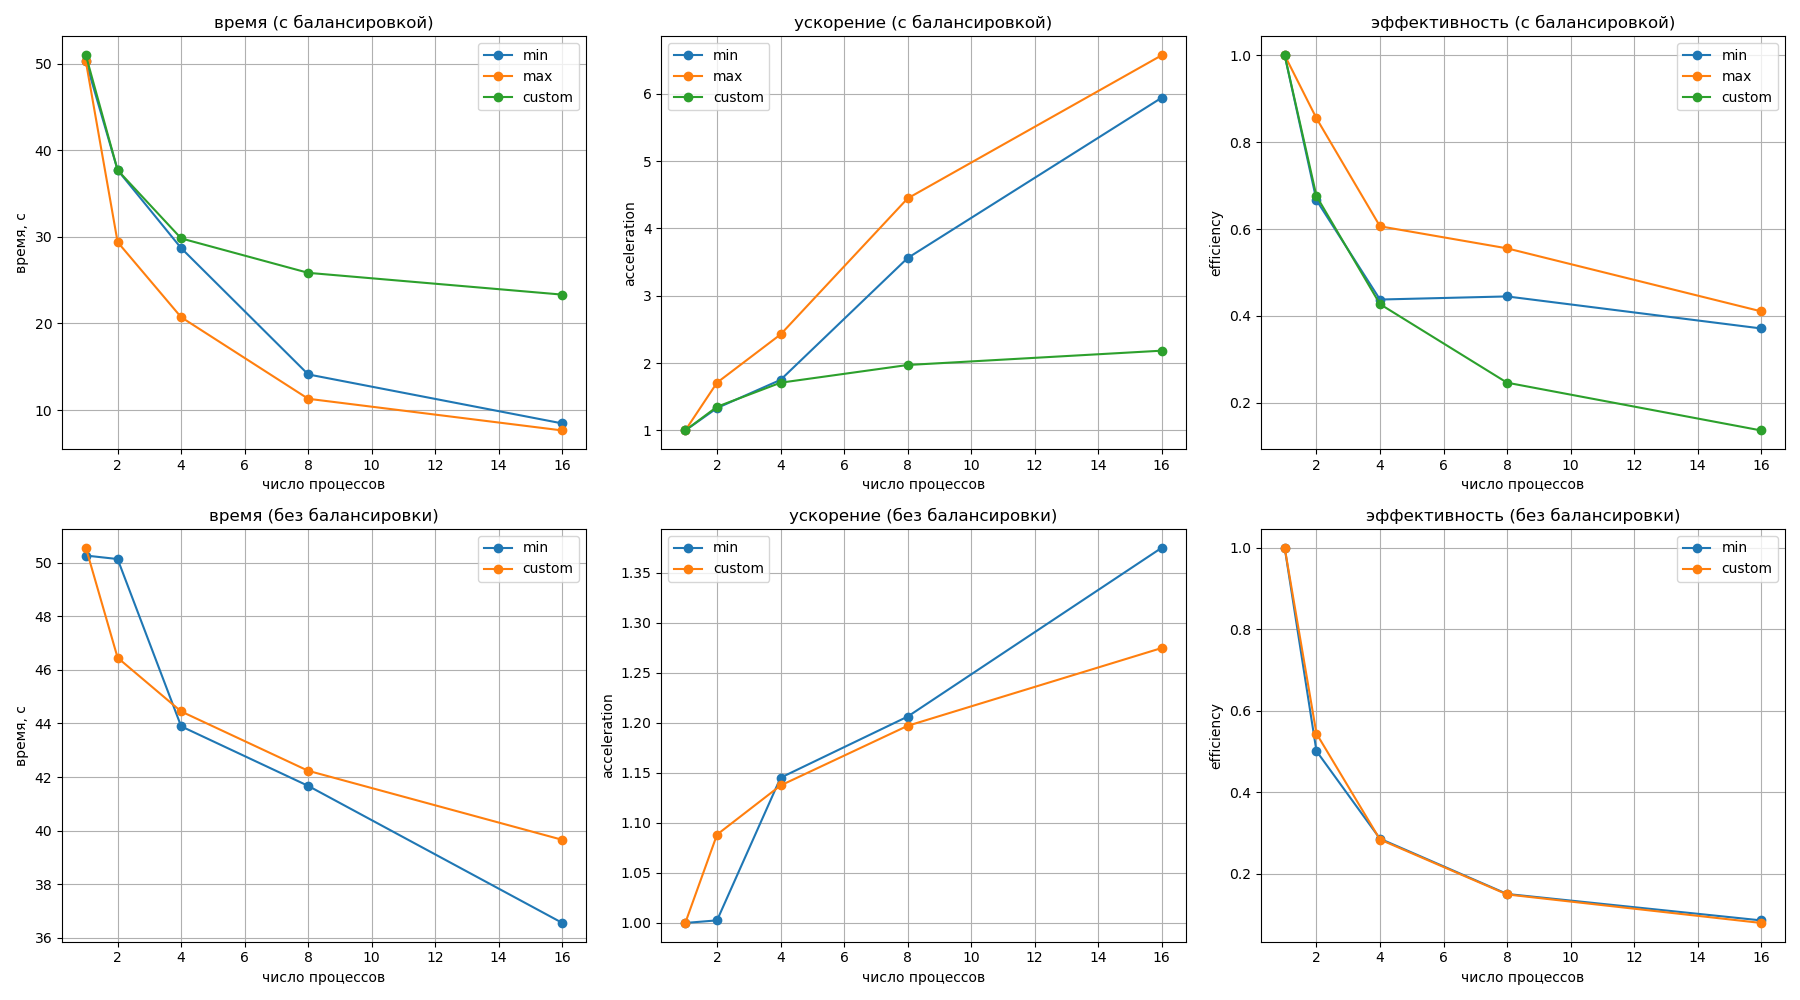
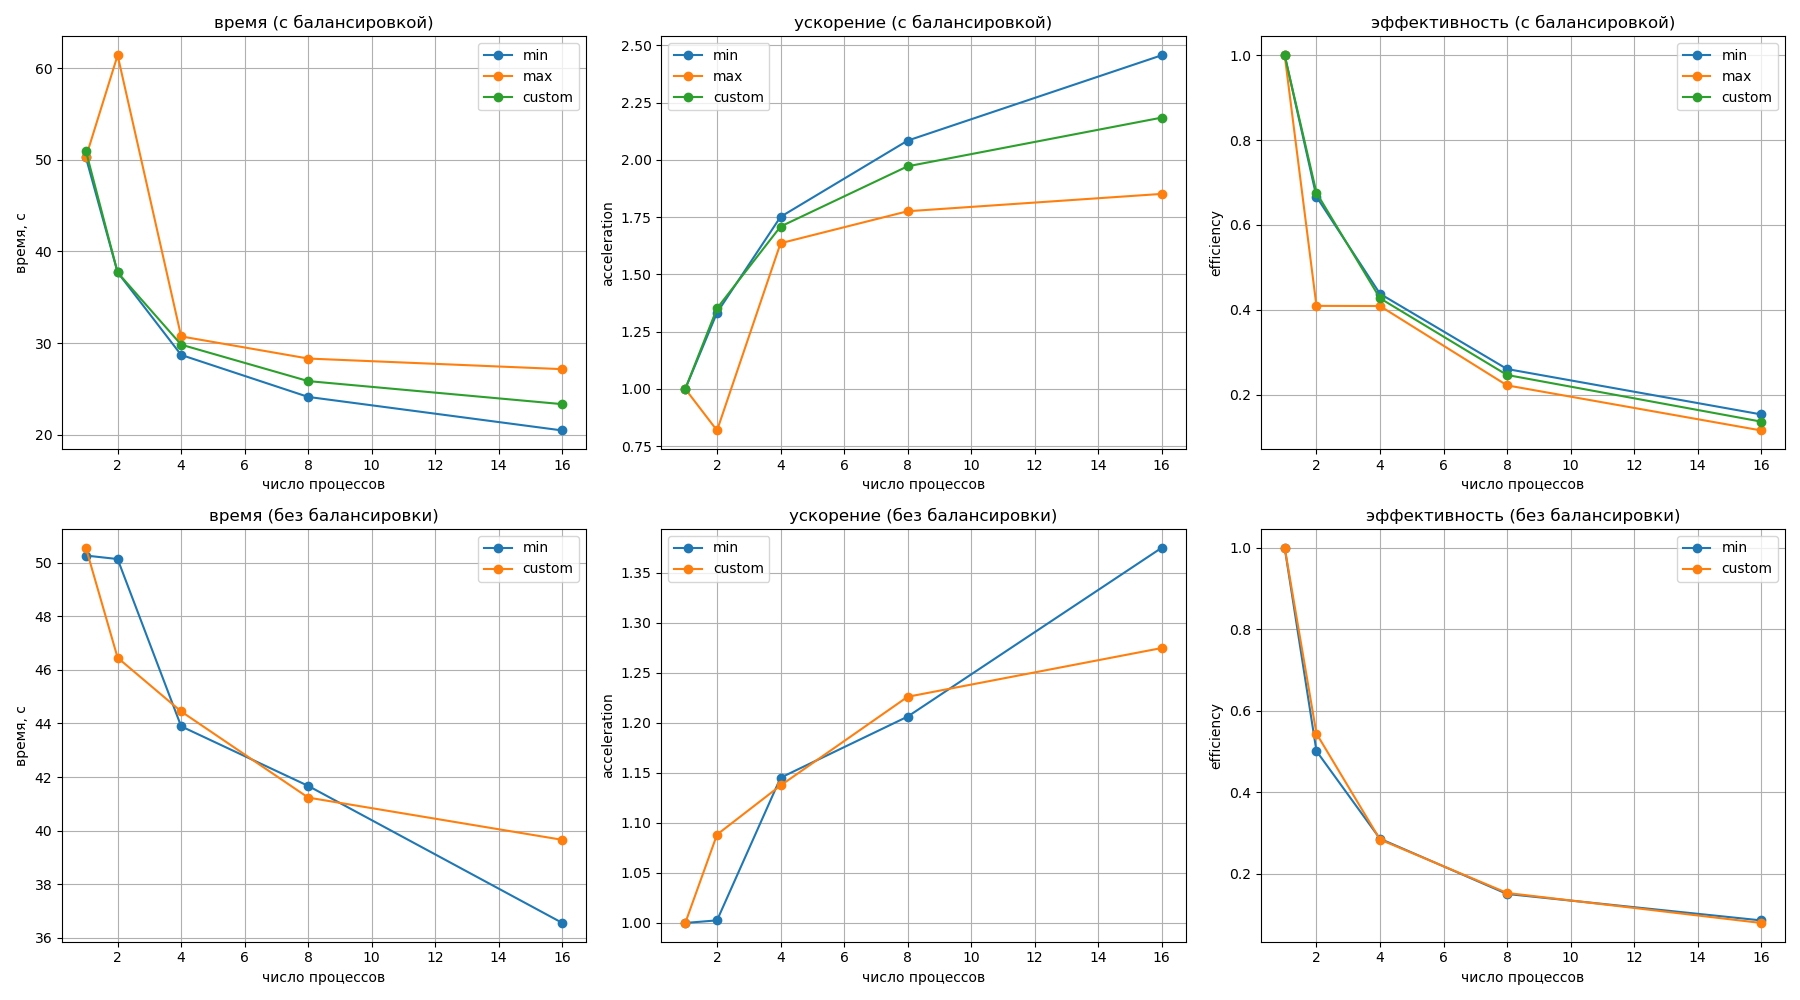
graph

diff --git a/lab5/makegraphs.py b/lab5/makegraphs.py
@@ -2,6 +2,18 @@ import matplotlib.pyplot as plt
 
 threads = [1, 2, 4, 8, 16]
 
+# times_bal = {
+#     "min": [50.267, 37.7112, 28.7021, 24.1206, 20.4622], 
+#     "max": [50.2649, 61.3969, 30.7238, 28.3081, 27.1505],
+#     "custom": [50.967, 37.7001, 29.8236, 25.8473, 23.3321],
+# }
+
+# times_nobal = {
+#     "min": [50.2694, 50.1387, 43.8937, 41.6695, 36.5532],
+#     # "max": [50.2684, 75.2653, 115.695, 195.37, 276.212],
+#     "custom": [50.5604, 46.4544, 44.449, 41.2336, 39.6562 ],
+# }
+
 times_bal = {
     "min": [50.267, 37.7112, 28.7021, 14.1206, 8.4622], 
     "max": [50.2649, 29.3969 , 20.7238 , 11.3081, 7.1505],
